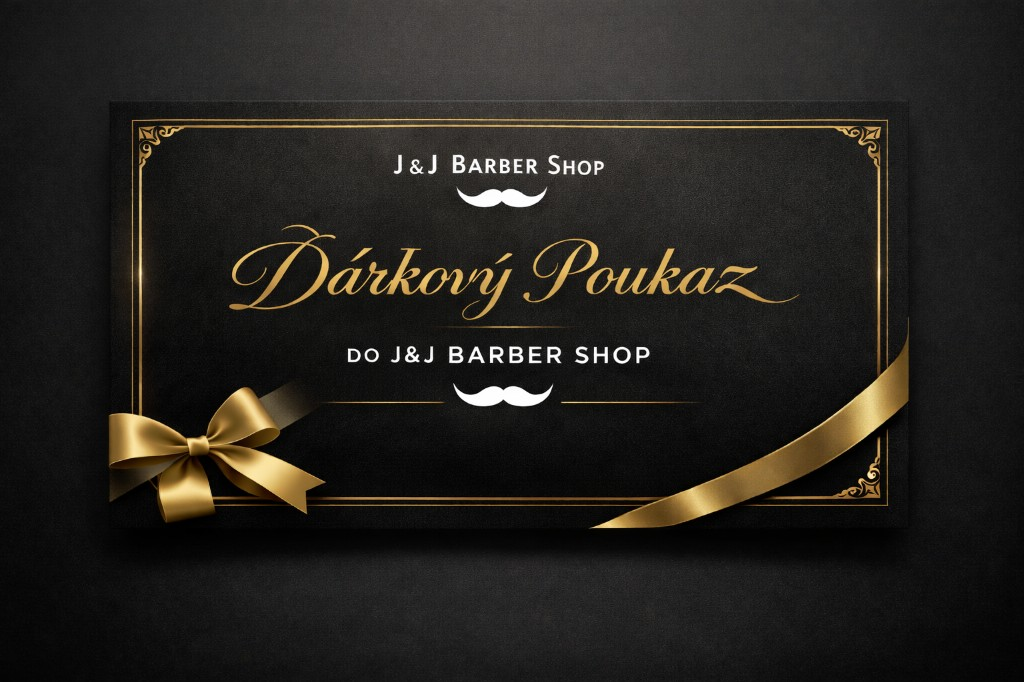
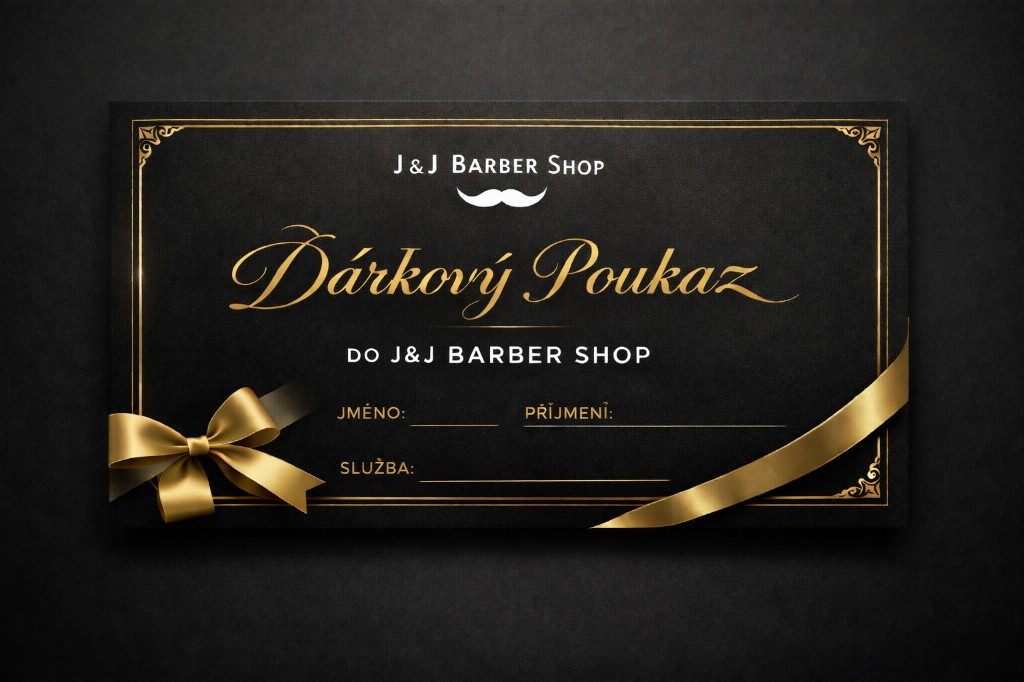
Voucher: šablona 1024×682, přesné pozice jméno/příjmení/služba, voucher-merit.html pro měření
Made-with: Cursor

diff --git a/src/app/admin/AdminApp.tsx b/src/app/admin/AdminApp.tsx
@@ -534,10 +534,23 @@ export function AdminApp() {
         }
       }
     }
-    const width = 800;
-    const height = 500;
+    const width = 1024;
+    const height = 682;
     const amountStr = parseAmount(o.service).toLocaleString("cs-CZ");
-    const fullName = `${o.name} ${o.surname || ""}`.trim();
+    const surname = (o.surname || "").trim();
+    // Šablona 1024×682 px. Pozice z voucher-merit.html (X, Y od spodu).
+    const layout = {
+      voucherNo: { top: 32, right: 40 },
+      nameLeft: 417,
+      nameBottom: 272,
+      surnameLeft: 636,
+      surnameBottom: 275,
+      serviceLeft: 437,
+      serviceBottom: 221,
+      serviceRight: 98,
+      amountBottom: 88,
+      branchBottom: 48,
+    };
     const iframe = document.createElement("iframe");
     iframe.setAttribute("style", "position:fixed;left:-9999px;top:0;width:" + width + "px;height:" + height + "px;border:none;");
     document.body.appendChild(iframe);
@@ -548,16 +561,17 @@ export function AdminApp() {
     }
     doc.open();
     doc.write(`
-      <!DOCTYPE html><html><head><meta charset="utf-8"></head><body style="margin:0;background:#0f0f0f;">
+      <!DOCTYPE html><html><head><meta charset="utf-8">
+      <link rel="stylesheet" href="https://fonts.googleapis.com/css2?family=Playfair+Display:wght@400;600;700&display=swap">
+      </head><body style="margin:0;background:#0f0f0f;">
       <div style="position:relative;width:${width}px;height:${height}px;overflow:hidden;background:#0f0f0f;">
-        <img src="${window.location.origin}/voucher-card.png" alt="" style="position:absolute;inset:0;width:100%;height:100%;object-fit:cover;" />
-        <div style="position:absolute;top:24px;right:32px;font-size:12px;color:#8a8a8a;font-family:Georgia,serif;z-index:1;">Č. voucheru: ${escapeHtml(voucherNumber)}</div>
-        <div style="position:absolute;bottom:70px;left:0;right:0;text-align:center;font-family:Georgia,serif;padding:0 50px;z-index:1;line-height:1.35;">
-          <div style="font-size:20px;font-weight:600;margin:0 0 6px 0;color:#ffffff;">${escapeHtml(fullName)}</div>
-          <div style="font-size:14px;margin:0 0 6px 0;color:#C4BEB4;">${escapeHtml(o.service)}</div>
-          <div style="font-size:18px;font-weight:600;margin:0 0 8px 0;color:#C9A84C;">${escapeHtml(amountStr)} Kč</div>
-          <div style="font-size:12px;margin:0;color:#8a8a8a;">Pobočka: ${escapeHtml(o.branch)}</div>
-        </div>
+        <img src="${window.location.origin}/voucher-card.png" alt="" style="position:absolute;inset:0;width:100%;height:100%;object-fit:fill;" />
+        <div style="position:absolute;top:${layout.voucherNo.top}px;right:${layout.voucherNo.right}px;font-size:11px;color:#8a8a8a;font-family:'Playfair Display',serif;z-index:1;">Č. voucheru: ${escapeHtml(voucherNumber)}</div>
+        <div style="position:absolute;left:${layout.nameLeft}px;bottom:${layout.nameBottom}px;font-size:20px;font-weight:600;line-height:1;color:#ffffff;font-family:'Playfair Display',serif;z-index:1;">${escapeHtml(o.name)}</div>
+        <div style="position:absolute;left:${layout.surnameLeft}px;bottom:${layout.surnameBottom}px;font-size:20px;font-weight:600;line-height:1;color:#ffffff;font-family:'Playfair Display',serif;z-index:1;">${escapeHtml(surname || "–")}</div>
+        <div style="position:absolute;left:${layout.serviceLeft}px;right:${layout.serviceRight}px;bottom:${layout.serviceBottom}px;font-size:17px;line-height:1;color:#C4BEB4;font-family:'Playfair Display',serif;z-index:1;">${escapeHtml(o.service)}</div>
+        <div style="position:absolute;left:${layout.serviceLeft}px;bottom:${layout.amountBottom}px;font-size:19px;font-weight:700;color:#C9A84C;font-family:'Playfair Display',serif;z-index:1;">${escapeHtml(amountStr)} Kč</div>
+        <div style="position:absolute;left:${layout.serviceLeft}px;bottom:${layout.branchBottom}px;font-size:12px;color:#8a8a8a;font-family:'Playfair Display',serif;z-index:1;">Pobočka: ${escapeHtml(o.branch)}</div>
       </div>
       </body></html>
     `);
@@ -575,7 +589,8 @@ export function AdminApp() {
       : Promise.resolve();
     try {
       await imgLoaded;
-      await new Promise((r) => setTimeout(r, 100));
+      if (doc.fonts?.ready) await doc.fonts.ready;
+      await new Promise((r) => setTimeout(r, 150));
       const canvas = await html2canvas(container, {
         scale: 2,
         useCORS: true,

diff --git a/public/voucher-merit.html b/public/voucher-merit.html
@@ -1,0 +1,46 @@
+<!DOCTYPE html>
+<html lang="cs">
+<head>
+  <meta charset="utf-8">
+  <title>Měření pozic voucheru</title>
+  <style>
+    body { font-family: system-ui, sans-serif; padding: 16px; background: #1a1a1a; color: #eee; }
+    h1 { font-size: 1rem; margin-bottom: 8px; }
+    p { font-size: 14px; color: #999; margin-bottom: 16px; }
+    #coords { font-size: 18px; font-weight: 600; margin-bottom: 24px; }
+    img { display: block; max-width: 100%; height: auto; cursor: crosshair; }
+    .wrap { position: relative; display: inline-block; }
+  </style>
+</head>
+<body>
+  <h1>Měření pozic pro voucher (1024×682 px)</h1>
+  <p>Najetím myší na obrázek uvidíš souřadnice. Y od spodu = 682 − Y (zobrazuje se dole). Klikni pro zkopírování řádku do schránky.</p>
+  <div id="coords">X: — &nbsp; Y: — &nbsp; <strong>Y od spodu: —</strong></div>
+  <div class="wrap">
+    <img id="img" src="/voucher-card.png" alt="Voucher" width="1024" height="682">
+  </div>
+  <script>
+    var img = document.getElementById('img');
+    var coords = document.getElementById('coords');
+    var h = 682;
+    img.addEventListener('mousemove', function(e) {
+      var rect = img.getBoundingClientRect();
+      var x = Math.round(e.clientX - rect.left);
+      var y = Math.round(e.clientY - rect.top);
+      var yFromBottom = h - y;
+      coords.innerHTML = 'X: ' + x + ' &nbsp; Y: ' + y + ' &nbsp; <strong>Y od spodu: ' + yFromBottom + '</strong>';
+    });
+    img.addEventListener('click', function(e) {
+      var rect = img.getBoundingClientRect();
+      var x = Math.round(e.clientX - rect.left);
+      var y = Math.round(e.clientY - rect.top);
+      var yFromBottom = h - y;
+      var line = 'X: ' + x + ', Y od spodu: ' + yFromBottom;
+      navigator.clipboard.writeText(line).then(function() {
+        coords.innerHTML = 'Zkopírováno: ' + line;
+        setTimeout(function() { coords.innerHTML = 'X: ' + x + ' &nbsp; Y: ' + y + ' &nbsp; <strong>Y od spodu: ' + yFromBottom + '</strong>'; }, 1500);
+      });
+    });
+  </script>
+</body>
+</html>
